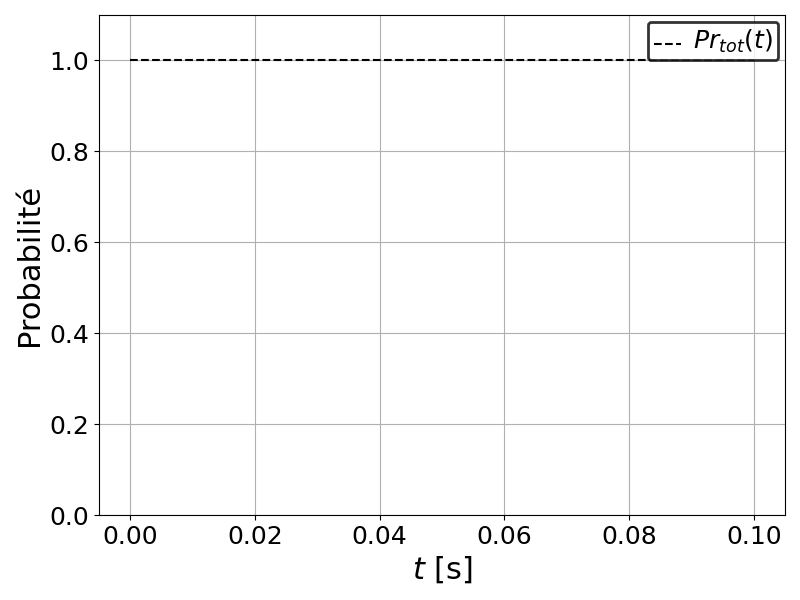
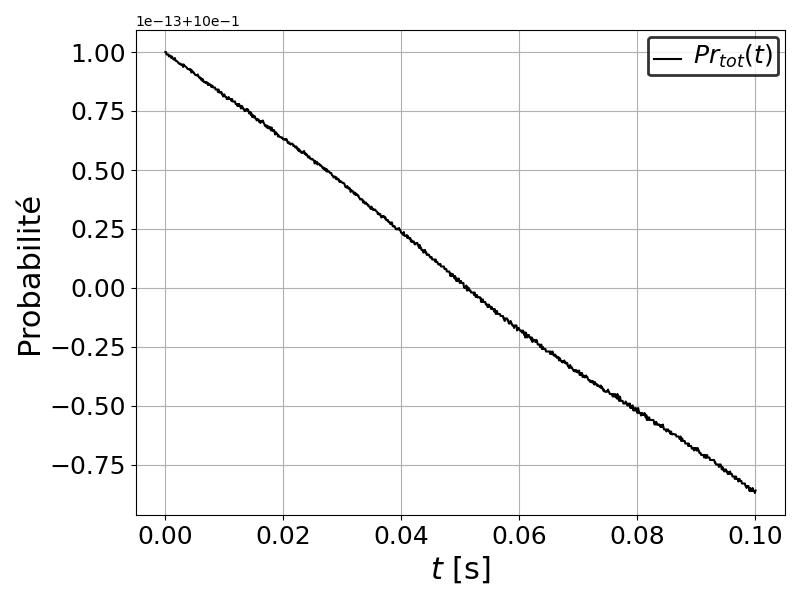
aa

diff --git a/Ex6/point_i/paramterscan.py b/Ex6/point_i/paramterscan.py
@@ -153,8 +153,8 @@ u.savefig(fig, f"psi_imagV0", ext = ext)
 ax,fig = u.create_figure_and_apply_format(figsize=(8, 6),xlabel=r"$t$ [s]", ylabel=r'Probabilité')
 
 
-ax.plot(t,prob_left+prob_right, label=r"Pr$_{tot}(t)$", linestyle="--", color = "black")
-plt.ylim(0, 1.1*np.max(prob_left+prob_right))
+ax.plot(t,prob_left+prob_right, label=r"Pr$_{tot}(t)$", color = "black")
+# plt.ylim(0, 1.1*np.max(prob_left+prob_right))
 plt.tight_layout()
 u.set_legend_properties(ax, fontsize=18)
 u.savefig(fig, f"probV0", ext = ext)
